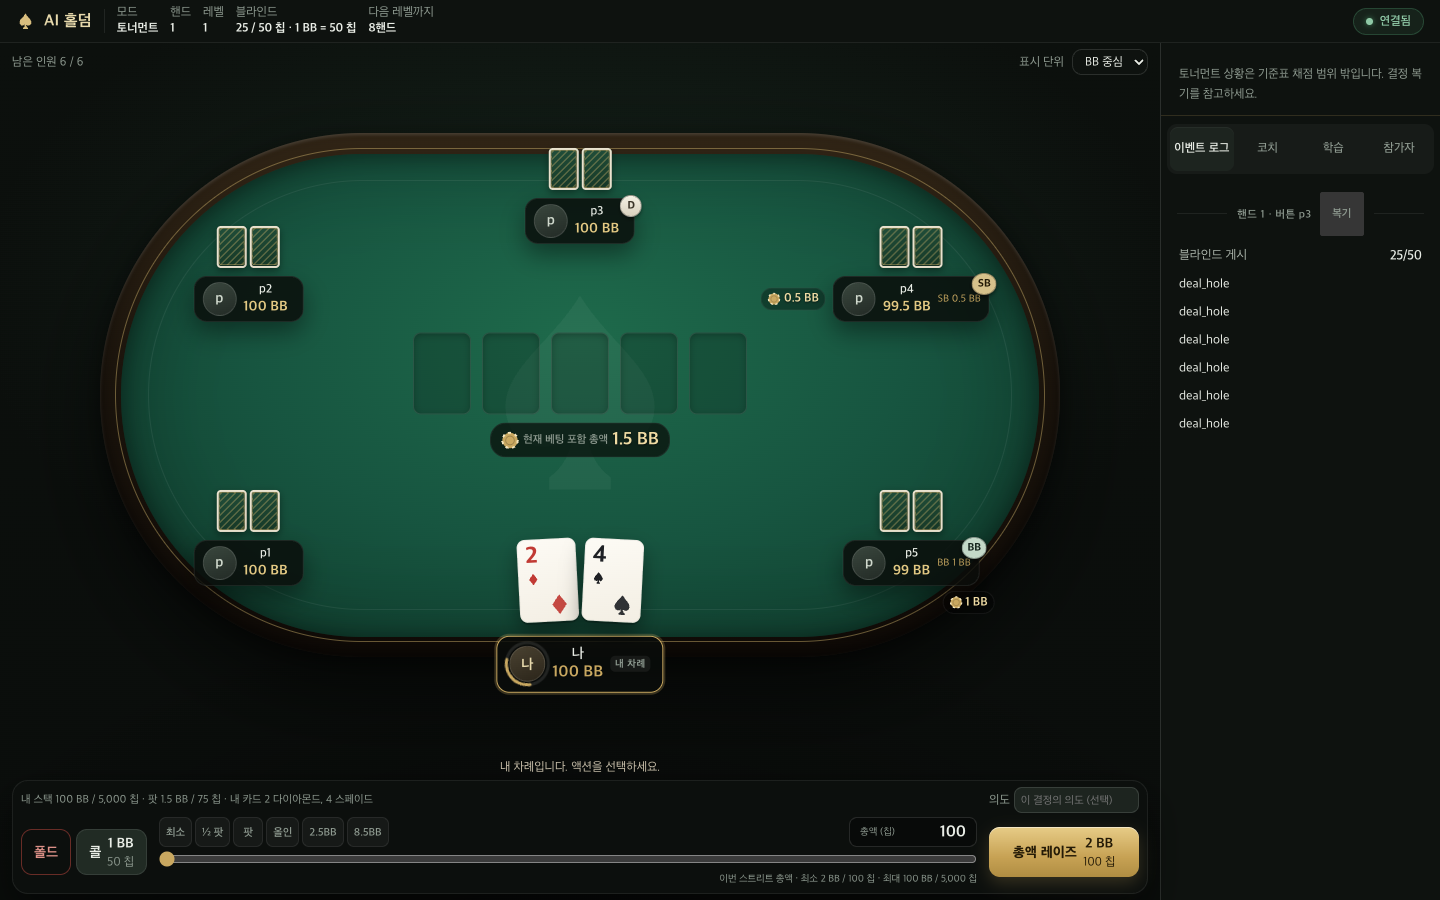
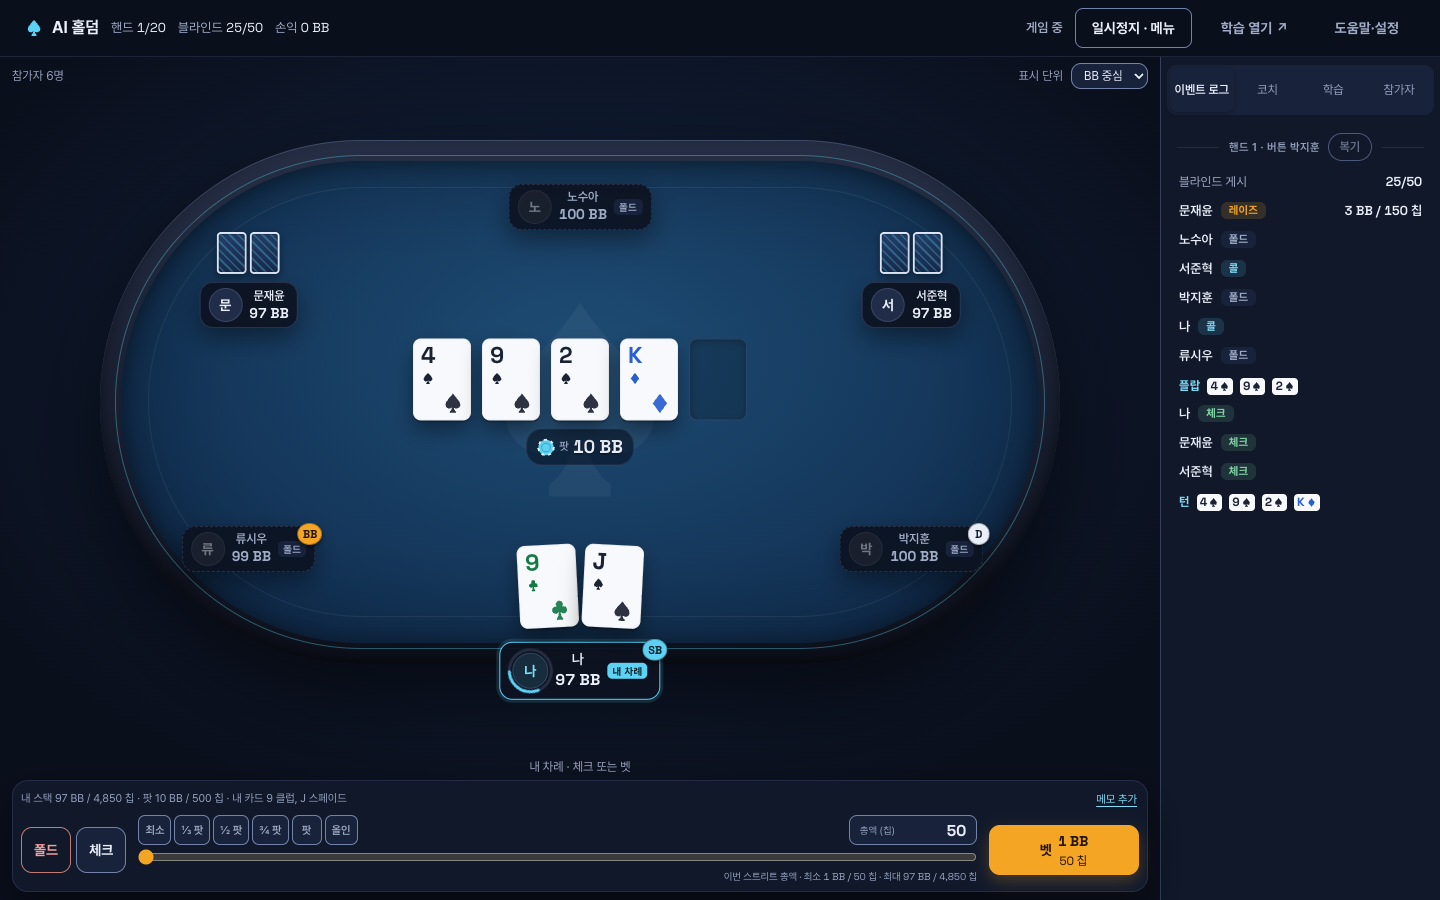
docs: 새 UI 스크린샷·모듈 표·도움말/표시 설정/리플레이어 운영 문구
- README 스크린샷: 호스트 로비에서 로컬 정책 AI와 둔 6인 캐시 게임(턴, 로그 포함)
- ARCHITECTURE: 토큰·기반 CSS·테마 부트, 카드 렌더러·모션, 셸 브리지, 복기
  모델·리플레이어, 도움말·표시 설정·처음 안내, 초대(QR), 학습실
- 운영 문서: 도움말·표시 설정(브라우저별 저장), 처음 안내, 시각 복기와 텍스트
  대체, 참가 페이지 단일 헤더

diff --git a/docs/operations.ko.md b/docs/operations.ko.md
@@ -115,6 +115,8 @@ npm run app:stop -- /absolute/path/to/game
 
 게임 중 `일시정지 · 메뉴`를 누르면 현재 접수된 행동을 마친 뒤 정지한다. 계속하기, 같은 설정의 새 게임, 모드 선택, 종료를 제공한다. 메뉴 닫기와 Escape는 일시정지를 유지한다. 새 게임은 새 ID를 사용하고 완료한 핸드 기록은 보존한다. 중도 종료는 `aborted`이며 진행 중이던 핸드를 완료 성적에 포함하지 않는다. 정상 완주 리뷰는 종료된 게임의 `게임 기록 보기`에서 다시 열 수 있다.
 
+헤더의 `도움말·설정`에서 도움말(기본 규칙과 족보, 용어, 게임 방식, 학습 수치의 의미, 공개 범위와 외부 전송)과 표시 설정을 연다. 표시 설정은 테마(미드나잇 기본·클래식·페이퍼), 금액 단위(BB/칩), 덱 색(4색/2색), 모션 줄이기, 처음 안내 다시 보기이며 브라우저별로 저장되고 서버로 보내지 않는다. 학습실·참가 페이지는 다른 주소라 각각 따로 저장된다. 첫 게임의 첫 내 차례에는 3단계 처음 안내가 사이드 패널에 뜨며, 행동 제한 시간이 있는 차례(온라인)에는 띄우지 않는다. 로그 탭의 `복기`는 좌석·보드·팟을 단계별로 재생하는 리플레이어로 열리고(←/→/Home/End/Space), 기록이 엔진 정산 규칙과 맞지 않는 핸드는 텍스트 목록으로 보여 준다. 참가 페이지는 게임 중 표 상단바 대신 페이지 헤더 한 줄에 핸드·블라인드·손익·연결을 보여 준다.
+
 앱 서비스와 학습 서비스는 게임보다 오래 유지된다. 로비의 접속 토큰은 URL fragment에서 sessionStorage로 옮겨지고 relay 토큰은 브라우저에 전달하지 않는다. 링크와 private descriptor를 공유하지 않는다. 기존 직접 실행 게임이 활성 상태면 로비가 소유권을 가져오지 않는다.
 
 ### 사이드카 직접 기동

diff --git a/README.ko.md b/README.ko.md
@@ -14,7 +14,7 @@ AI 상대, 멀티플레이, 핸드 복기, 개인 학습실을 갖춘 셀프 호
 
 ![AI Hold’em browser table](docs/images/table.png)
 
-브라우저 테스트 세션의 6인 토너먼트 테이블입니다.
+호스트 로비에서 로컬 정책 AI와 둔 6인 캐시 트레이닝 게임입니다(브라우저 테스트 세션).
 
 ## 어떤 프로젝트인가요?
 

diff --git a/README.md b/README.md
@@ -14,7 +14,7 @@ A self-hosted, browser-based No-Limit Texas Hold'em playground with AI opponents
 
 ![AI Hold’em browser table](docs/images/table.png)
 
-Six-player tournament table from a browser test session (Korean UI).
+A six-player cash-training game against the local policy AIs, in the host lobby (browser test session, Korean UI).
 
 ## Why AI Hold'em?
 
